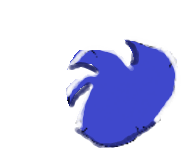
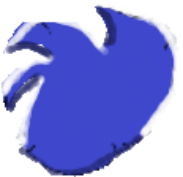
BIG SANIC BALL

diff --git a/Game/Sanic.cs b/Game/Sanic.cs
@@ -56,7 +56,7 @@ namespace Game
 
 
 			sanic.Origin = new Vector2f(sanic.GetLocalBounds().Width / 2, sanic.GetLocalBounds().Height / 2);
-			sanicBall.Origin = new Vector2f(125, 90);
+			sanicBall.Origin = new Vector2f(sanicBall.GetLocalBounds().Width / 2, sanicBall.GetLocalBounds().Height / 2);
 			currentSprite = sanicBall;
 		}
 
